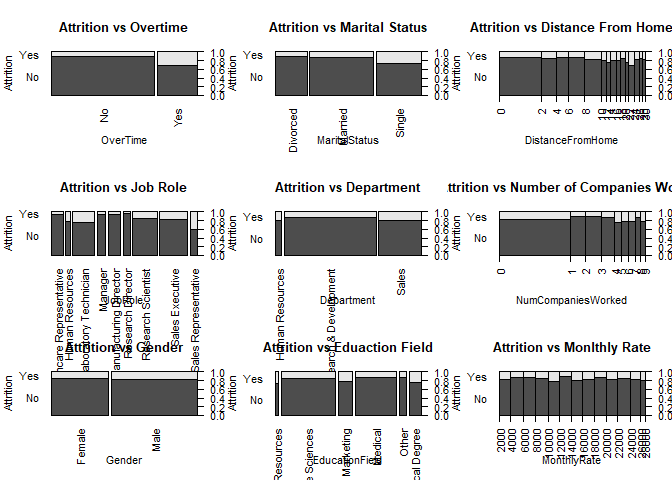
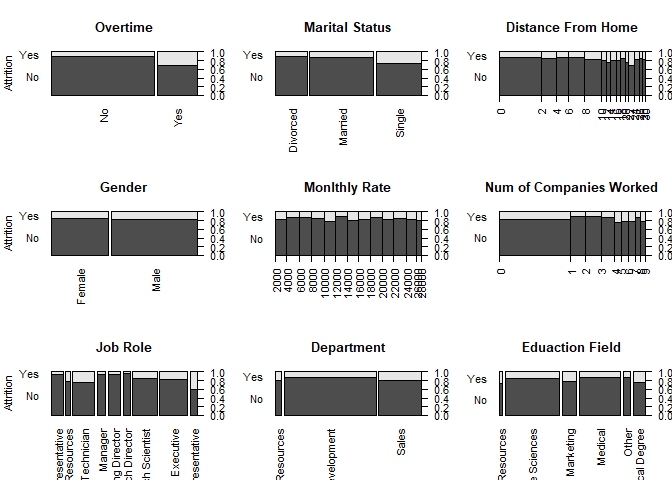
Adjusted bullet points v0.12

diff --git a/CaseStudy2.md b/CaseStudy2.md
@@ -150,7 +150,7 @@ SortAtt <- Attrition[order(-Attrition$Correlation),]
 
 #Display top 10 Positively Correlated Parameters
 row.names(SortAtt)<-NULL
-knitr::kable(head(SortAtt,10))
+knitr::kable(head(SortAtt, 10))
 ```
 
 |  Correlation| Parameter          |
@@ -202,17 +202,17 @@ corrplot(as.matrix(Attcor[SA10,SA10]), method="pie",
 ![](CaseStudy2_files/figure-markdown_github/unnamed-chunk-6-2.png)
 
 ``` r
-# Plot each of Top 10 positively correlated parameters with Attrition
+# Plot each of Top 9 positively correlated parameters with Attrition
 par(mfrow=c(3,3), las=2)
-plot(Attrition~OverTime, data=df, main="Attrition vs Overtime")
-plot(Attrition~MaritalStatus, data=df, main="Attrition vs Marital Status")
-plot(Attrition~DistanceFromHome, data=df, main="Attrition vs Distance From Home")
-plot(Attrition~JobRole, data=df, main="Attrition vs Job Role")
-plot(Attrition~Department, data=df, main="Attrition vs Department")
-plot(Attrition~NumCompaniesWorked, data=df, main= "Attrition vs Number of Companies Worked")
-plot(Attrition~Gender, data=df, main= "Attrition vs Gender" )
-plot(Attrition~EducationField, data=df, main="Attrition vs Eduaction Field")
-plot(Attrition~MonthlyRate, data=df, main="Attrition vs Monlthly Rate")
+plot(Attrition~OverTime, data=df, main="Overtime", xlab="", ylab="Attrition")
+plot(Attrition~MaritalStatus, data=df, main="Marital Status", xlab="", ylab="")
+plot(Attrition~DistanceFromHome, data=df, main="Distance From Home", xlab="", ylab="")
+plot(Attrition~Gender, data=df, main= "Gender", xlab="", ylab="Attrition")
+plot(Attrition~MonthlyRate, data=df, main="Monlthly Rate", xlab="", ylab="")
+plot(Attrition~NumCompaniesWorked, data=df, main= "Num of Companies Worked", xlab="", ylab="")
+plot(Attrition~JobRole, data=df, main="Job Role", xlab="", ylab="Attrition")
+plot(Attrition~Department, data=df, main="Department", xlab="", ylab="")
+plot(Attrition~EducationField, data=df, main="Eduaction Field", xlab="", ylab="")
 ```
 
 ![](CaseStudy2_files/figure-markdown_github/unnamed-chunk-6-3.png)
